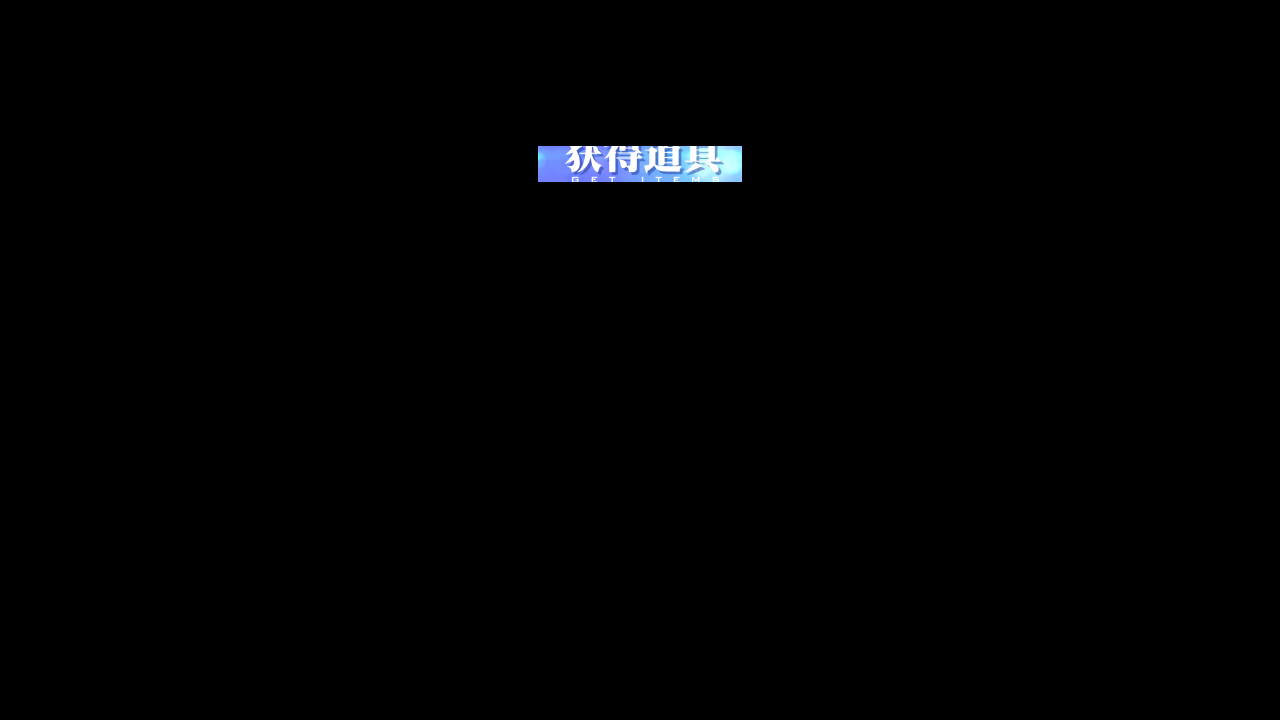
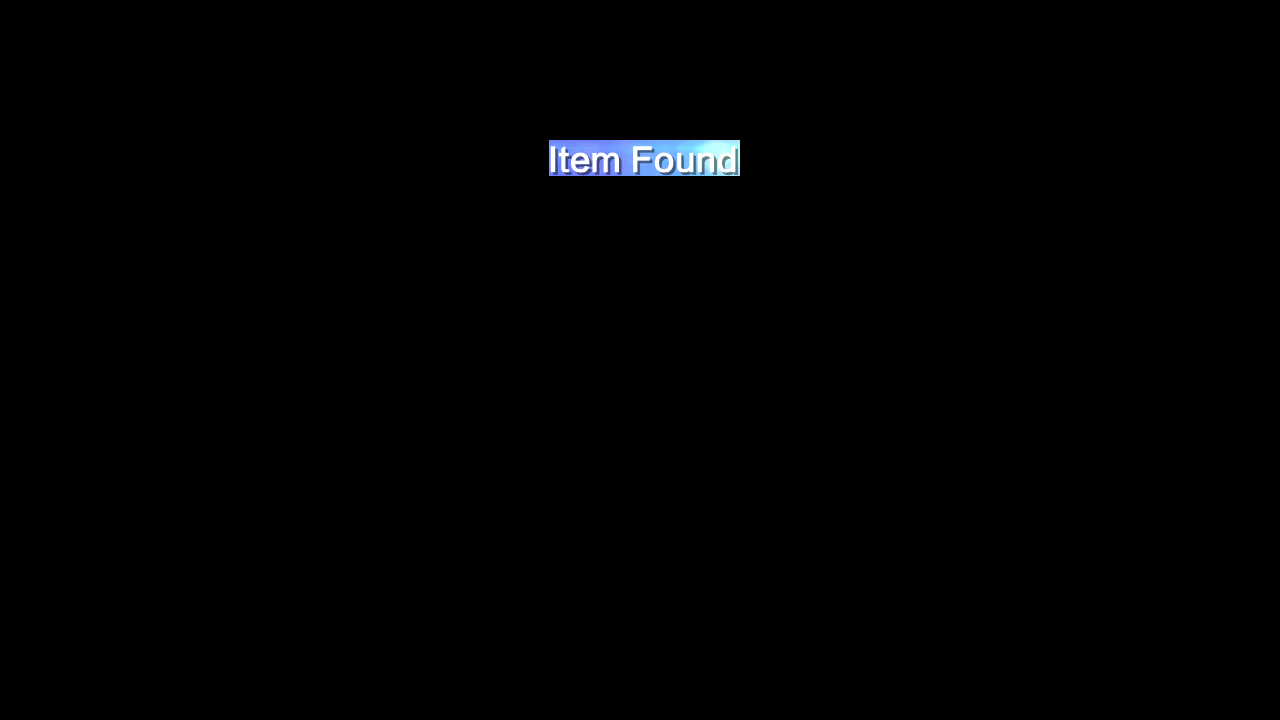
Added new EN assets and new maps support
- Added suport to 10-1 and 10-2
- Added suport to EN event Iris of Light and Dark Rerun, only D2 at the moment
- New EN assets

Changed region(s): [[0.4062, 0.1833, 0.5938, 0.275]]

diff --git a/module/handler/assets.py b/module/handler/assets.py
@@ -14,7 +14,7 @@ FORMATION_3 = Button(area={'cn': (1108, 415, 1170, 477), 'en': (1108, 415, 1170,
 FORMATION_LOCATION = Button(area={'cn': (145, 115, 437, 159), 'en': (145, 115, 437, 159)}, color={'cn': (103, 118, 118), 'en': (103, 118, 118)}, button={'cn': (145, 115, 437, 159), 'en': (145, 115, 437, 159)}, file={'cn': './assets/cn/handler/FORMATION_LOCATION.png', 'en': './assets/en/handler/FORMATION_LOCATION.png'})
 GET_AMMO = Button(area={'cn': (792, 315, 794, 333), 'en': (792, 315, 794, 333)}, color={'cn': (251, 250, 255), 'en': (251, 250, 255)}, button={'cn': (792, 315, 794, 333), 'en': (792, 315, 794, 333)}, file={'cn': './assets/cn/handler/GET_AMMO.png', 'en': './assets/en/handler/GET_AMMO.png'})
 GET_ITEMS_1 = Button(area={'cn': (538, 217, 741, 253), 'en': (550, 215, 739, 246)}, color={'cn': (160, 192, 248), 'en': (157, 187, 233)}, button={'cn': (924, 653, 943, 672), 'en': (924, 653, 943, 672)}, file={'cn': './assets/cn/handler/GET_ITEMS_1.png', 'en': './assets/en/handler/GET_ITEMS_1.png'})
-GET_MISSION = Button(area={'cn': (553, 491, 727, 551), 'en': (553, 491, 727, 551)}, color={'cn': (96, 144, 204), 'en': (96, 144, 204)}, button={'cn': (553, 491, 727, 551), 'en': (553, 491, 727, 551)}, file={'cn': './assets/cn/handler/GET_MISSION.png', 'en': './assets/en/handler/GET_MISSION.png'})
+GET_MISSION = Button(area={'cn': (553, 491, 727, 551), 'en': (553, 481, 727, 541)}, color={'cn': (96, 144, 204), 'en': (109, 153, 209)}, button={'cn': (553, 491, 727, 551), 'en': (553, 481, 727, 541)}, file={'cn': './assets/cn/handler/GET_MISSION.png', 'en': './assets/en/handler/GET_MISSION.png'})
 INFO_BAR_1 = Button(area={'cn': (194, 297, 1086, 299), 'en': (194, 297, 1086, 299)}, color={'cn': (107, 158, 255), 'en': (107, 158, 255)}, button={'cn': (194, 297, 1086, 299), 'en': (194, 297, 1086, 299)}, file={'cn': './assets/cn/handler/INFO_BAR_1.png', 'en': './assets/en/handler/INFO_BAR_1.png'})
 INFO_BAR_2 = Button(area={'cn': (194, 234, 1086, 236), 'en': (194, 234, 1086, 236)}, color={'cn': (107, 158, 255), 'en': (107, 158, 255)}, button={'cn': (194, 234, 1086, 236), 'en': (194, 234, 1086, 236)}, file={'cn': './assets/cn/handler/INFO_BAR_2.png', 'en': './assets/en/handler/INFO_BAR_2.png'})
 INFO_BAR_3 = Button(area={'cn': (194, 171, 1086, 173), 'en': (194, 171, 1086, 173)}, color={'cn': (107, 158, 255), 'en': (107, 158, 255)}, button={'cn': (194, 171, 1086, 173), 'en': (194, 171, 1086, 173)}, file={'cn': './assets/cn/handler/INFO_BAR_3.png', 'en': './assets/en/handler/INFO_BAR_3.png'})

diff --git a/campaign/campaign_main/campaign_10_2.py b/campaign/campaign_main/campaign_10_2.py
@@ -1,0 +1,49 @@
+from module.campaign.campaign_base import CampaignBase
+from module.map.map_base import CampaignMap
+from module.map.map_grids import SelectedGrids, RoadGrids
+from module.logger import logger
+
+
+MAP = CampaignMap('10-2')
+MAP.shape = 'H6'
+MAP.map_data = '''
+    MB -- ME ME -- ++ ME MB
+    -- ++ ++ ME ME ++ ME ME
+    -- SP ++ ++ __ ME ME ++
+    -- SP ++ ++ -- ME ME ++
+    -- ++ ++ -- ME ++ ME ME
+    -- -- -- -- ME ++ ME MB
+'''
+# MAP.weight_data = '''
+#     10 10 10 10 10 10 10 10
+#     10 20 10 10 10 10 10 10
+#     10 10 10 10 30 10 10 20
+#     10 10 10 10 10 10 10 10
+#     10 10 10 10 10 10 10 10
+#     10 10 10 10 10 10 10 10
+# '''
+# MAP.camera_data = ['D3']
+# MAP.spawn_data = [
+#     {'battle': 0, 'enemy': 3},
+#     {'battle': 1, 'enemy': 2, 'mystery': 1},
+#     {'battle': 2, 'enemy': 2, 'mystery': 1},
+#     {'battle': 3, 'enemy': 1, 'mystery': 2},
+#     {'battle': 4, 'enemy': 1},
+#     {'battle': 5, 'boss': 1},
+# ]
+
+A1, B1, C1, D1, E1, F1, G1, H1, \
+A2, B2, C2, D2, E2, F2, G2, H2, \
+A3, B3, C3, D3, E3, F3, G3, H3, \
+A4, B4, C4, D4, E4, F4, G4, H4, \
+A5, B5, C5, D5, E5, F5, G5, H5, \
+A6, B6, C6, D6, E6, F6, G6, H6, \
+    = MAP.flatten()
+
+
+class Config:
+    pass
+
+
+class Campaign(CampaignBase):
+    MAP = MAP

diff --git a/campaign/campaign_main/campaign_10_1.py b/campaign/campaign_main/campaign_10_1.py
@@ -1,0 +1,49 @@
+from module.campaign.campaign_base import CampaignBase
+from module.map.map_base import CampaignMap
+from module.map.map_grids import SelectedGrids, RoadGrids
+from module.logger import logger
+
+
+MAP = CampaignMap('10-1')
+MAP.shape = 'G6'
+MAP.map_data = '''
+    SP -- ++ -- ME ME --
+    -- -- ++ ME ME ME ME
+    -- ME ME ME ME ME MB
+    -- ME ME ME ++ ++ MB
+    -- -- ++ ME ME ++ MB
+    SP -- ++ ++ -- -- ++
+'''
+# MAP.weight_data = '''
+#     10 10 10 10 10 10 10
+#     10 20 10 10 10 10 10
+#     10 10 10 10 30 10 10
+#     10 10 10 10 10 10 10
+#     10 10 10 10 10 10 10
+#     10 10 10 10 10 10 10
+# '''
+# MAP.camera_data = ['D3']
+# MAP.spawn_data = [
+#     {'battle': 0, 'enemy': 3},
+#     {'battle': 1, 'enemy': 2, 'mystery': 1},
+#     {'battle': 2, 'enemy': 2, 'mystery': 1},
+#     {'battle': 3, 'enemy': 1, 'mystery': 2},
+#     {'battle': 4, 'enemy': 1},
+#     {'battle': 5, 'boss': 1},
+# ]
+
+A1, B1, C1, D1, E1, F1, G1, \
+A2, B2, C2, D2, E2, F2, G2, \
+A3, B3, C3, D3, E3, F3, G3, \
+A4, B4, C4, D4, E4, F4, G4, \
+A5, B5, C5, D5, E5, F5, G5, \
+A6, B6, C6, D6, E6, F6, G6, \
+    = MAP.flatten()
+
+
+class Config:
+    pass
+
+
+class Campaign(CampaignBase):
+    MAP = MAP

diff --git a/campaign/event_20200521_en/d2.py b/campaign/event_20200521_en/d2.py
@@ -1,0 +1,41 @@
+from module.campaign.campaign_base import CampaignBase
+from module.map.map_base import CampaignMap
+
+MAP = CampaignMap('d2')
+MAP.shape = 'I7'
+MAP.map_data = '''
+    SP -- -- -- -- -- ME ++ MB 
+    -- ME -- MS ME -- -- ++ -- 
+    -- -- ME ++ ++ ++ -- -- -- 
+    ME __ -- ME ME ME -- MS -- 
+    ME MS -- ++ ++ ++ -- -- -- 
+    -- ME -- ME -- -- -- ++ -- 
+    SP -- -- -- -- ME -- ++ MB 
+'''
+
+MAP.camera_data = ['D2', 'B5', 'H4']
+MAP.weight_data = """
+    40 40 40 40 40 40 30 40 20
+    40 30 40 10 30 40 40 40 40
+    40 40 30 40 40 40 40 40 40
+    30 30 40 30 30 30 40 10 40
+    30 10 40 40 40 40 40 40 40
+    40 30 40 30 40 40 40 40 40
+    40 40 40 40 40 30 40 40 20
+"""
+
+class Config:
+    CAMPAIGN_MODE = 'hard'
+    SUBMARINE = 1
+    FLEET_BOSS = 2
+    POOR_MAP_DATA = False
+    MAP_HAS_AMBUSH = False
+    MAP_HAS_FLEET_STEP = False
+    MAP_HAS_MOVABLE_ENEMY = False
+    MAP_HAS_SIREN = True
+    MAP_HAS_DYNAMIC_RED_BORDER = False
+    MAP_HAS_MAP_STORY = False
+    MAP_SIREN_COUNT = 3
+
+class Campaign(CampaignBase):
+    MAP = MAP

diff --git a/module/config/dictionary.py b/module/config/dictionary.py
@@ -195,12 +195,8 @@ dic_true_eng_to_eng = {
     'good_opponent': 'good_opponent',
 
     # Event
-    '北境序曲': 'event_20200227_cn',
-    '复刻斯图尔特的硝烟': 'event_20200312_cn',
-    '微层混合': 'event_20200326_cn',
-    '复刻苍红的回响': 'event_20200423_cn',
-    '夜幕下的归途': 'event_20200507_cn',
-    '穹顶下的圣咏曲': 'event_20200521_cn',
+    'event_20200521_en': 'event_20200521_en',
+
 }
 
 dic_chi_to_eng = {
